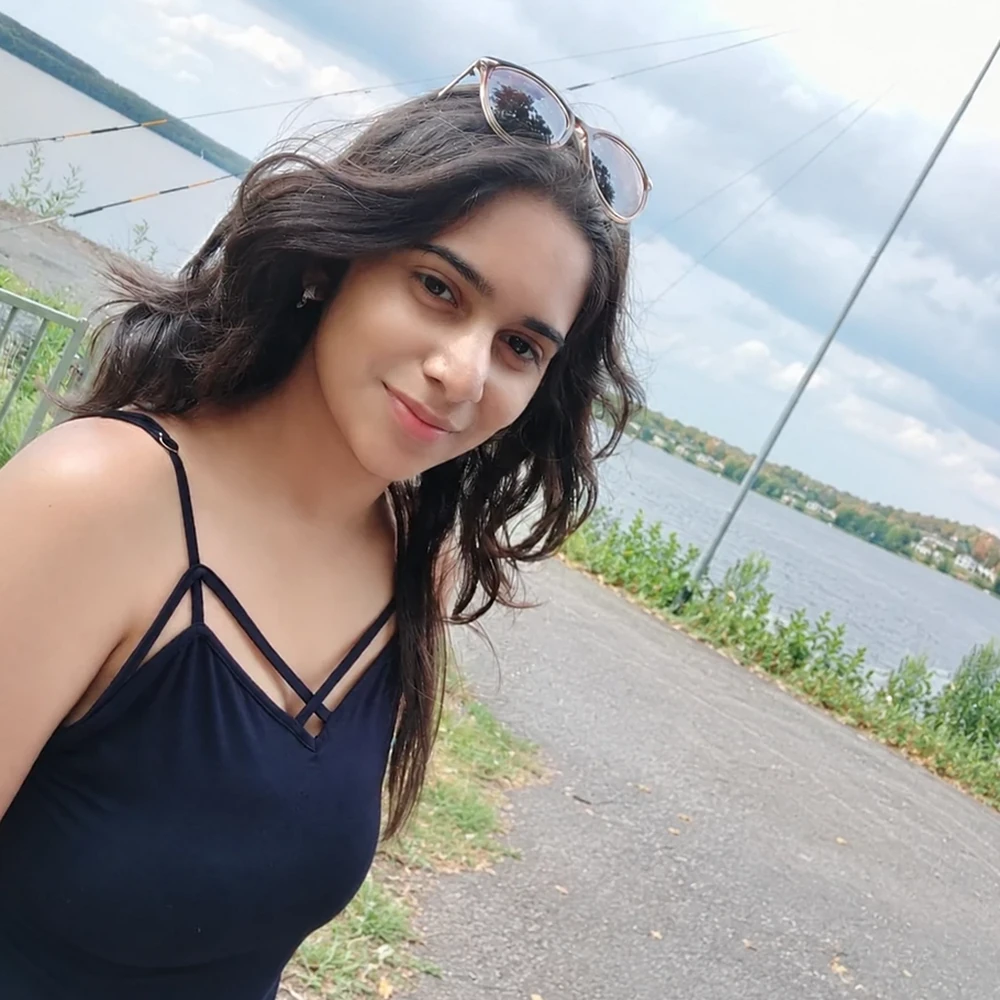
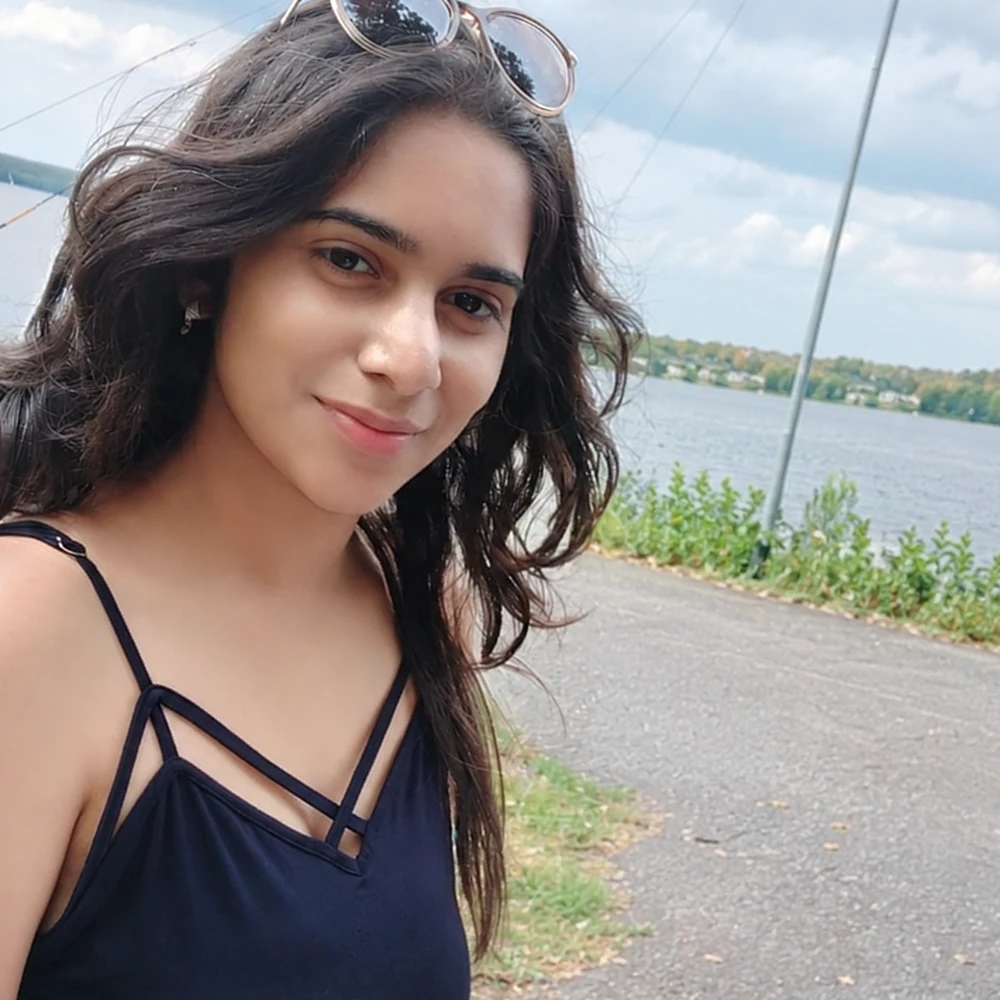
Refine portrait and simplify homepage

diff --git a/index.html b/index.html
@@ -43,7 +43,6 @@ description: Researcher and engineer working on reasoning and agentic systems, l
         <a href="#research">Research</a>
         <a href="#experience">Experience</a>
         <a href="#programs">Programs</a>
-        <a href="#news">News</a>
         <a href="#education">Education</a>
         <a href="{{ '/reading/' | relative_url }}">Selected reading</a>
         <a href="#writing">Writing</a>
@@ -61,7 +60,7 @@ description: Researcher and engineer working on reasoning and agentic systems, l
         <figure class="intro-portrait"><img src="{{ '/assets/images/ayushi-portrait.webp' | relative_url }}" alt="Portrait of Ayushi Chadha"></figure>
       </div>
       <p>My recent work approaches these questions through hierarchical control and adaptive computation. My first paper studies persistent directional subgoals inside a recurrent latent reasoner. My second studies learned supervisory control and asks whether an apparently adaptive internal signal actually produces useful decisions.</p>
-      <p>Before this work, I spent several years in <strong>machine learning and applied AI at Propero</strong>, where I led the development of ShopiBot, a domain-specific AI system, and worked across retrieval, agentic workflows, evaluation, and ML system design.</p>
+      <p>Before this work, I spent some time in <strong>machine learning and applied AI at Propero</strong>, where I led the development of ShopiBot, a domain-specific AI system, and worked across retrieval, agentic workflows, evaluation, and ML system design.</p>
       <p>I am interested in research and engineering work around <strong>reasoning, adaptive computation, agents, and model-facing systems</strong>.</p>
       <p class="direct-links"><a href="mailto:ayushichadha48@gmail.com">Email</a><a href="{{ '/assets/Ayushi_Chadha_CV.pdf' | relative_url }}">CV</a><a href="https://github.com/Ayushichadha">GitHub</a><a href="https://www.linkedin.com/in/ayushi-chadha-ai">LinkedIn</a><a href="https://x.com/AyushiChadha24">X</a><a href="https://substack.com/@ayushi25">Substack</a><a href="{{ '/reading/' | relative_url }}">Selected reading</a></p>
     </section>
@@ -149,21 +148,6 @@ description: Researcher and engineer working on reasoning and agentic systems, l
         <h3><a href="https://compositional-learning.github.io/">2nd Workshop on Compositional Learning: Safety, Interpretability, and Agents</a></h3>
         <p>Reviewed work on how learning systems acquire, represent, and combine reusable structure for generalization and reasoning across foundation models and agents.</p>
       </article>
-    </section>
-
-    <section id="news" aria-labelledby="news-title">
-      <h2 id="news-title">News</h2>
-      <div class="timeline">
-        <div class="timeline-row conference-item"><time>Sep 2026</time><p>Invited to give an oral presentation at the <strong>2nd Global Summit on Innovating the Future of Artificial Intelligence (Inno-AI) 2027</strong> in Kuala Lumpur, Malaysia.</p></div>
-        <div class="timeline-row"><time>Sep 2026</time><p>Released <em>A Score Is Not a Policy: Measuring Whether a Supervisory Module's Decisions Are Worth Making</em> as a preprint.</p></div>
-        <div class="timeline-row conference-item"><time>Sep 2026</time><p>Invited to review for the NeurIPS 2026 Workshop on Responsible Use of Meta-Agents.</p></div>
-        <div class="timeline-row"><time>Jun 2026</time><p>Received admission to Northeastern University’s <strong>MS in Artificial Intelligence</strong> with the <strong>International Impact Award</strong>.</p></div>
-        <div class="timeline-row"><time>Jun 2026</time><p>Advanced through the Research Taste Test and Applied AI Assessment for the MATS 2026 Empirical Research Track.</p></div>
-        <div class="timeline-row conference-item"><time>Jun 2026</time><p><em>When to Re-Plan: Subgoal Persistence in Hierarchical Latent Reasoning</em> accepted at the 2nd Workshop on Compositional Learning: Safety, Interpretability, and Agents @ ICML 2026 in Seoul.</p></div>
-        <div class="timeline-row conference-item"><time>May 2026</time><p>Served as a reviewer for the 2nd Workshop on Compositional Learning: Safety, Interpretability, and Agents @ ICML 2026.</p></div>
-        <div class="timeline-row"><time>Sep 2025</time><p>Advanced to the technical assessment stage of the Anthropic Fellows Program.</p></div>
-        <div class="timeline-row"><time>Jan 2025</time><p>Began focused work on recurrent and latent reasoning, adaptive computation, and hierarchical control.</p></div>
-      </div>
     </section>
 
     <section id="education" aria-labelledby="education-title">
